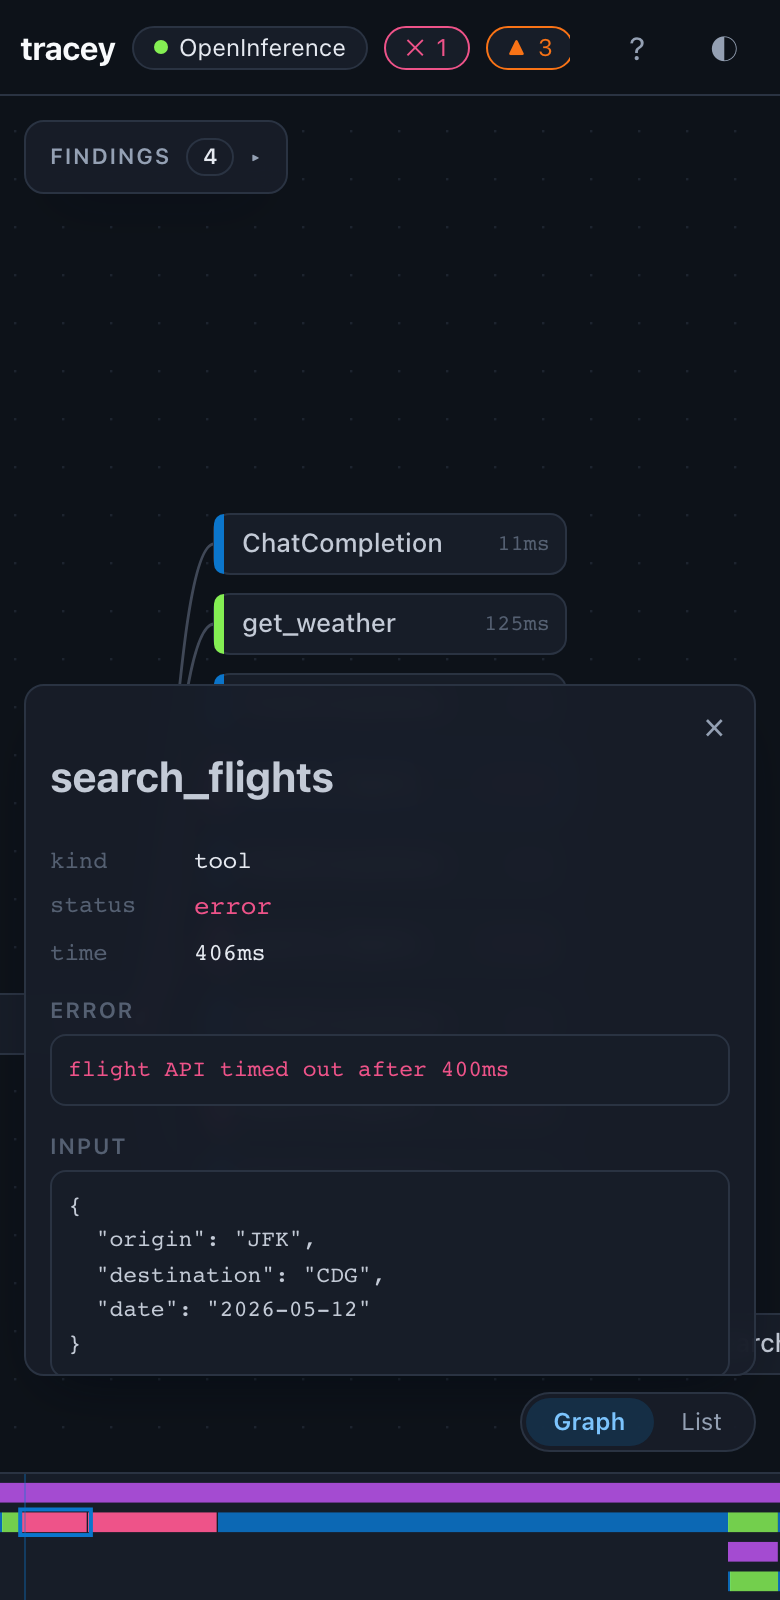
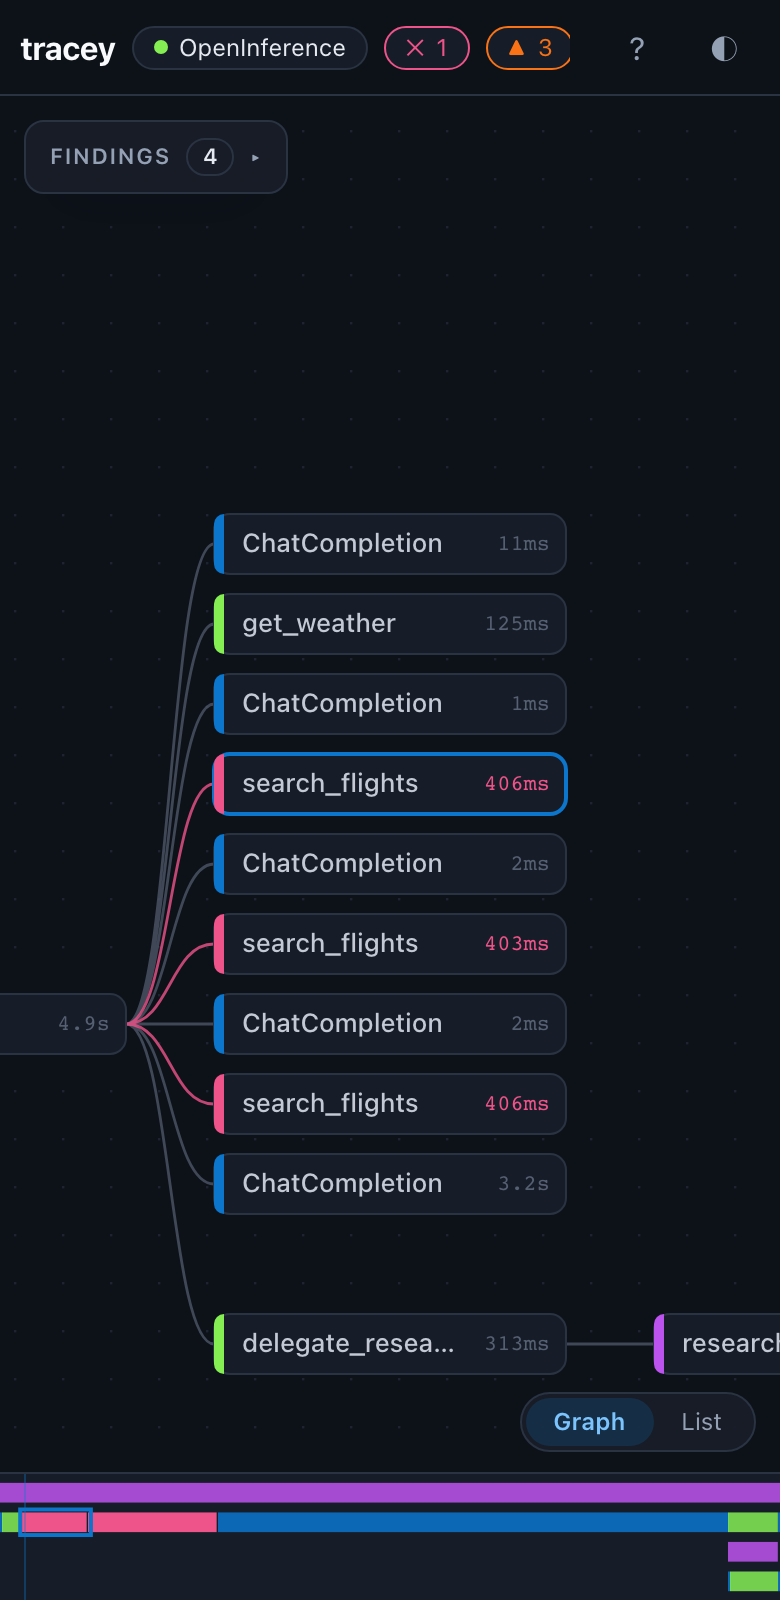
feat(web): open on the graph on a phone, with findings and the inspector as sheets
The inspector used to cover most of a phone screen on load. Now the graph is
visible first, findings collapse to one row, and tapping a finding or step
opens the inspector sheet. Screenshots refreshed.

diff --git a/apps/web/e2e/app.spec.ts b/apps/web/e2e/app.spec.ts
@@ -211,11 +211,29 @@ test.describe('responsive', () => {
       expect(overflow).toBeLessThanOrEqual(0)
       const box = await page.locator('.graph-canvas').boundingBox()
       expect(box!.width).toBeGreaterThan(width * 0.9)
+      if (width <= 700) {
+        // Phone: the graph is what you see first; findings and the inspector are sheets you open.
+        await expect(page.locator('.inspector-float')).toHaveCount(0)
+        await page.getByRole('button', { name: /^findings/i }).click()
+        await page.locator('.findings-float .finding').first().click()
+      }
       const inspector = await page.locator('.inspector-float').boundingBox()
       expect(inspector!.x).toBeGreaterThanOrEqual(0)
       expect(inspector!.x + inspector!.width).toBeLessThanOrEqual(width + 1)
+      expect(inspector!.y).toBeGreaterThanOrEqual(0)
     })
   }
+
+  test('on a phone the graph is visible on load, with findings collapsed to one row', async ({ page }) => {
+    await page.setViewportSize({ width: 390, height: 800 })
+    await openSample(page)
+    await page.waitForTimeout(500)
+    await expect(page.locator('.findings-float.collapsed')).toBeVisible()
+    await expect(page.locator('.inspector-float')).toHaveCount(0)
+    expect(await inkOf(page, '.graph-canvas')).toBeGreaterThan(5_000)
+    const box = await page.locator('.findings-float').boundingBox()
+    expect(box!.height).toBeLessThan(60)
+  })
 })
 
 test.describe('large traces', () => {

diff --git a/apps/web/src/Result.tsx b/apps/web/src/Result.tsx
@@ -16,8 +16,10 @@ export function Result(props: { loaded: Loaded }) {
   const [selected, setSelected] = createSignal<number>(props.loaded.findings[0]?.spans[0] ?? t().order[0] ?? -1)
   const [view, setView] = createSignal<View>('graph')
   const [highlight, setHighlight] = createSignal<readonly number[]>([])
-  const [inspectorOpen, setInspectorOpen] = createSignal(true)
-  const [findingsOpen, setFindingsOpen] = createSignal(!(typeof matchMedia === 'function' && matchMedia('(max-width: 700px)').matches))
+  // On a phone the inspector is a sheet over the graph: start with the graph visible, open on a tap.
+  const narrow = typeof matchMedia === 'function' && matchMedia('(max-width: 700px)').matches
+  const [inspectorOpen, setInspectorOpen] = createSignal(!narrow)
+  const [findingsOpen, setFindingsOpen] = createSignal(!narrow)
 
   const select = (i: number) => {
     setSelected(i)
